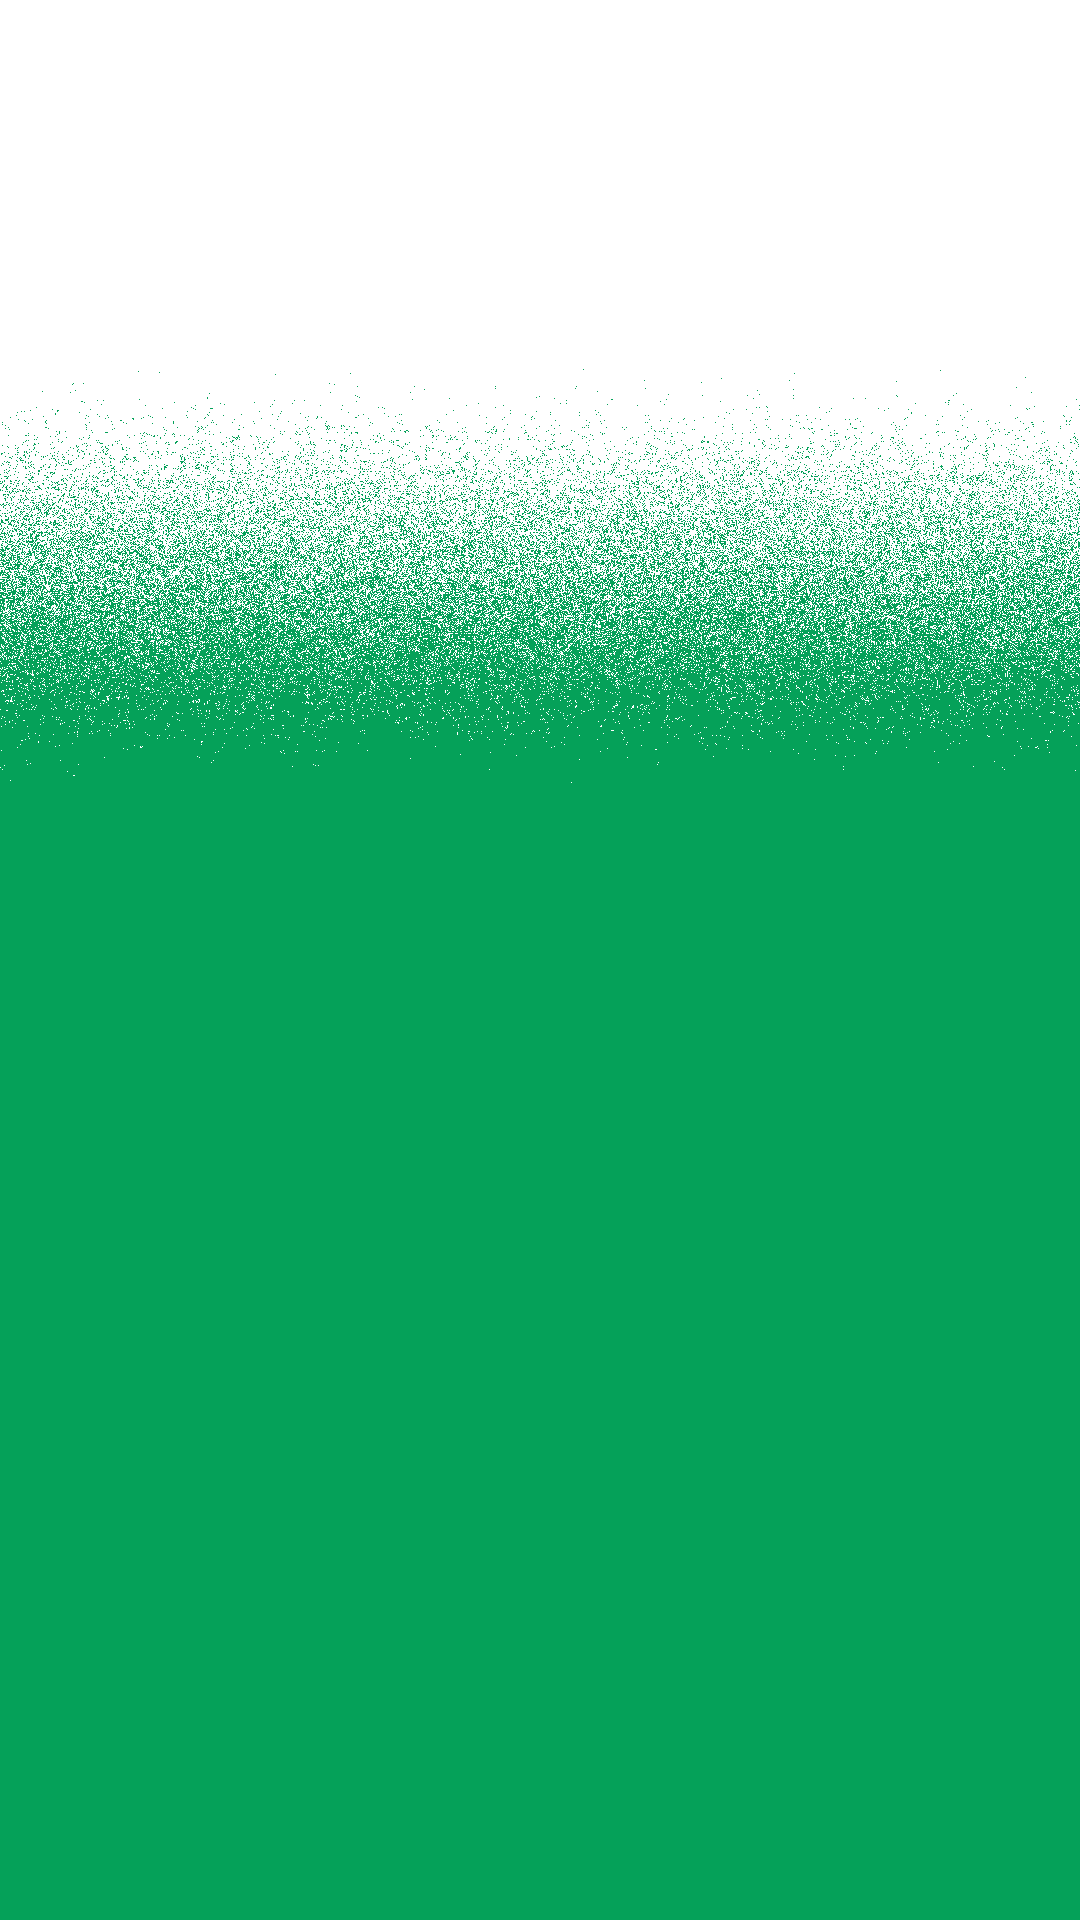
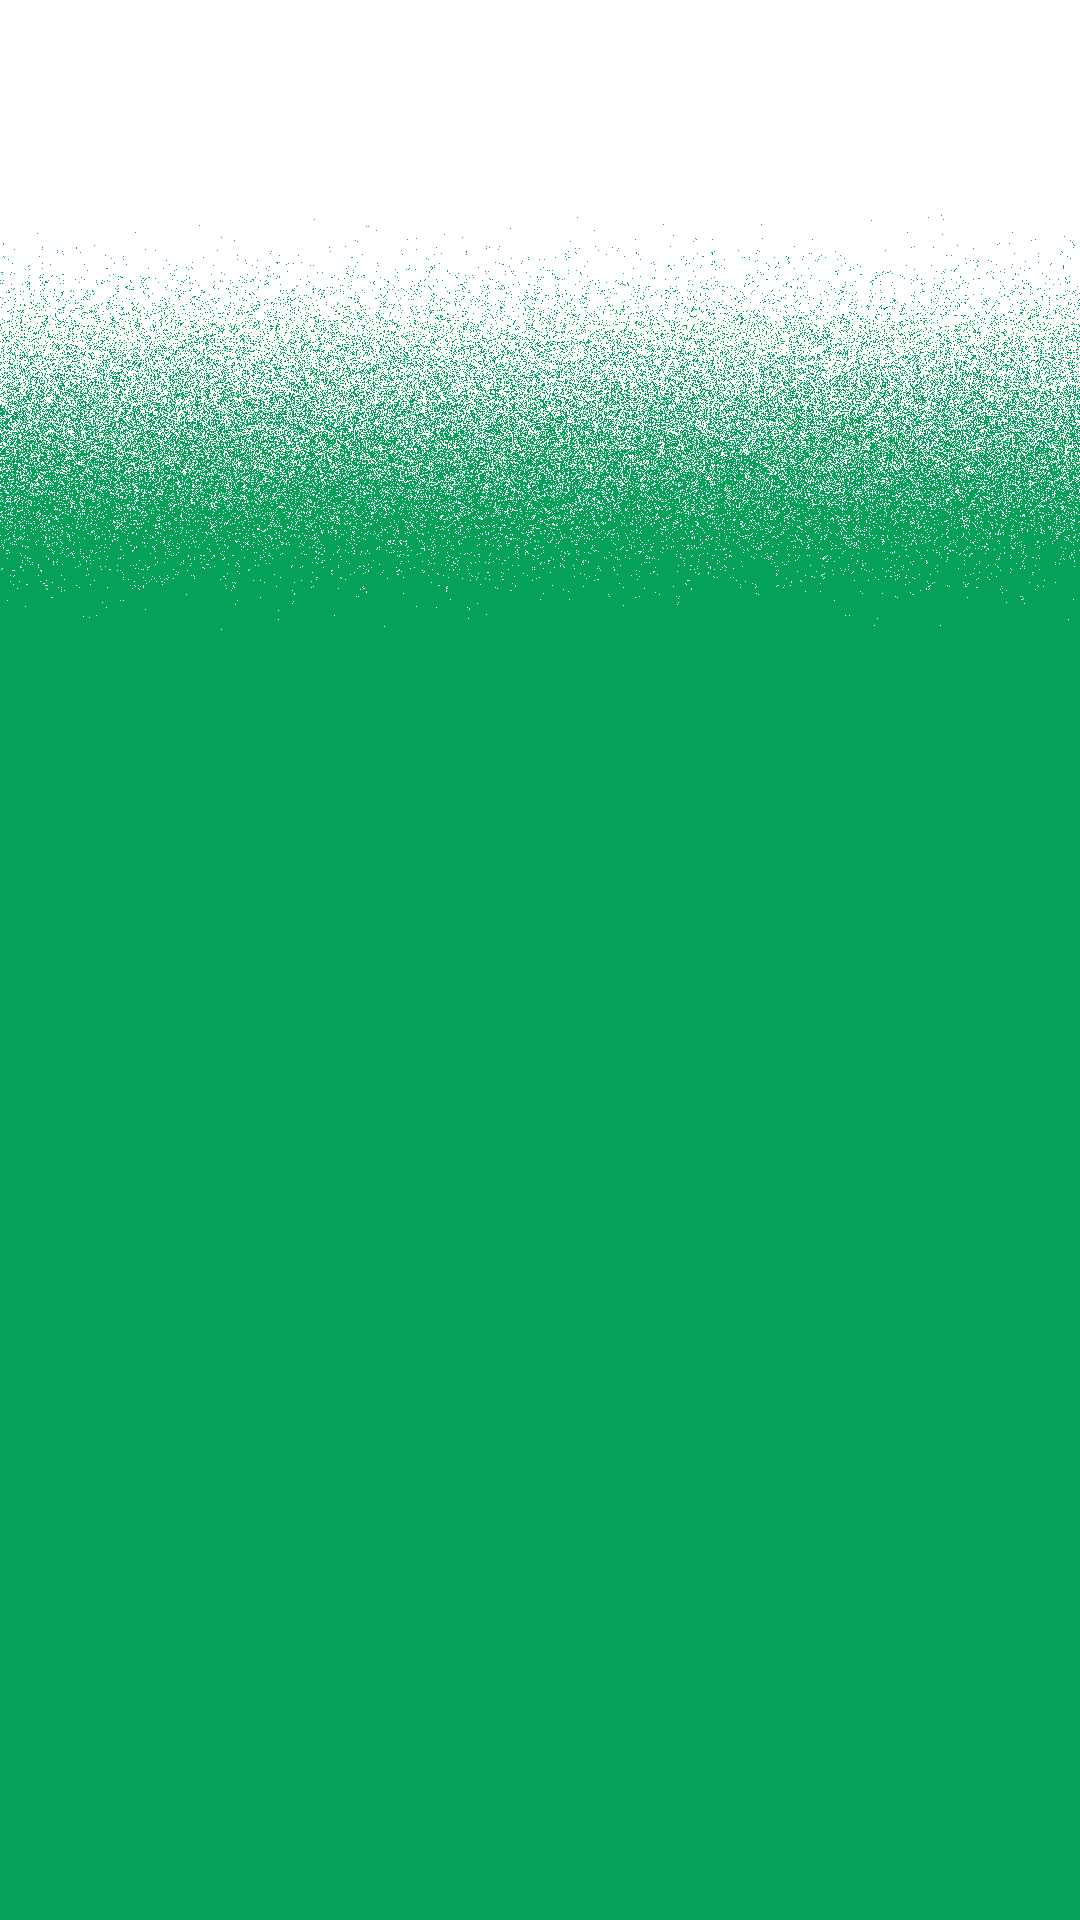
Prevent parallax background edge gaps
Oversize the moving background frame beyond its spring travel so the white page cannot be exposed. Raise the color dissolve and remove the top details divider.

Changed region(s): [[0.0, 0.1562, 1.0, 0.375]]

diff --git a/src/styles.css b/src/styles.css
@@ -7,6 +7,7 @@
   --background:#114bc6;
   --ink:#f6eddd;
   --glow:#72fff1;
+  --background-overscan:1.25rem;
   --edge:clamp(1rem,2vw,2rem);
   --top-edge:max(.75rem,env(safe-area-inset-top));
   --rail-height:3.25rem;
@@ -35,12 +36,12 @@ button{font:inherit}
 .site[data-ready="true"]{opacity:1}
 .visual,.background-parallax,.animal-parallax,.poster-background,.noscript-image{position:absolute;inset:0;width:100%;height:100%}
 .visual{z-index:0;overflow:hidden;background:var(--paper)}
-.background-parallax{z-index:0;clip-path:inset(0);will-change:transform,clip-path}
+.background-parallax{z-index:0;inset:calc(var(--background-overscan) * -1);width:auto;height:auto;clip-path:inset(0);will-change:transform,clip-path}
 .animal-parallax{z-index:2;will-change:transform,filter;pointer-events:none;transition:filter .2s var(--ease)}
 .animal-parallax[data-hit="true"],.animal-parallax:has(.animal:focus-visible){filter:drop-shadow(0 0 .16rem #fff) drop-shadow(0 0 .65rem color-mix(in srgb,var(--glow) 72%,#fff)) drop-shadow(0 0 1.9rem color-mix(in srgb,var(--glow) 84%,transparent)) brightness(1.1) saturate(1.1)}
 .poster-background,.noscript-image{z-index:0;display:block;object-fit:cover;object-position:center;user-select:none;-webkit-user-drag:none}
 .poster-background{transform:scale(1.035);will-change:opacity,filter}
-.dither-motion{position:absolute;z-index:1;inset:0;overflow:hidden;mix-blend-mode:soft-light;pointer-events:none;-webkit-mask-image:linear-gradient(to bottom,transparent 8%,#000 18%,#000 39%,transparent 49%);mask-image:linear-gradient(to bottom,transparent 8%,#000 18%,#000 39%,transparent 49%)}
+.dither-motion{position:absolute;z-index:1;inset:0;overflow:hidden;mix-blend-mode:soft-light;pointer-events:none;-webkit-mask-image:linear-gradient(to bottom,transparent 3%,#000 10%,#000 32%,transparent 42%);mask-image:linear-gradient(to bottom,transparent 3%,#000 10%,#000 32%,transparent 42%)}
 .dither-layer{position:absolute;inset:-8%;display:block;opacity:.12;background-repeat:repeat;image-rendering:pixelated;will-change:transform,opacity,background-position}
 .dither-layer-a{background-image:radial-gradient(circle,rgba(255,255,255,.9) 0 .7px,transparent .85px);background-size:4px 4px}
 .dither-layer-b{background-image:radial-gradient(circle,rgba(0,0,0,.72) 0 .65px,transparent .8px);background-position:2px 1px;background-size:5px 5px;mix-blend-mode:overlay}
@@ -63,7 +64,7 @@ html[data-scene="4"] .animal{bottom:0;left:-9vw;width:min(82vw,88rem)}
 .top-meta{position:absolute;top:var(--top-edge);right:var(--edge);left:var(--edge);display:grid;grid-template-columns:1fr auto 1fr;align-items:start;font-size:.51rem;letter-spacing:.09em}
 .top-meta>span:nth-child(2){justify-self:center;font-style:italic}
 .top-meta>span:last-child{justify-self:end}
-.scene-control{position:absolute;top:calc(var(--top-edge) + 1.7rem);right:var(--edge);left:var(--edge);display:grid;grid-template-columns:1fr auto 1fr;align-items:start;height:var(--rail-height);padding:0 0 .85rem;border:0;border-bottom:1px solid currentColor;background:transparent;color:inherit;text-align:left;cursor:pointer;pointer-events:auto}
+.scene-control{position:absolute;top:calc(var(--top-edge) + 1.7rem);right:var(--edge);left:var(--edge);display:grid;grid-template-columns:1fr auto 1fr;align-items:start;height:var(--rail-height);padding:0 0 .85rem;border:0;background:transparent;color:inherit;text-align:left;cursor:pointer;pointer-events:auto}
 .scene-control::after{position:absolute;inset:-.75rem 0;content:""}
 .scene-control:hover .scene-next{letter-spacing:.16em}
 .scene-control:active{transform:translateY(1px)}
@@ -118,7 +119,7 @@ html[data-scene="2"] .animal-card__media img,html[data-scene="4"] .animal-card__
 .animal-source{align-self:end;justify-self:stretch;margin-top:1rem;padding-top:.8rem;color:inherit;font-size:.58rem;font-weight:650;line-height:1;letter-spacing:.075em;text-decoration:none;border-top:1px solid rgba(20,20,20,.2)}
 
 button:focus-visible,a:focus-visible{outline:1px solid currentColor;outline-offset:4px}
-.scene-control:focus-visible{outline:0;border-bottom-width:2px}
+.scene-control:focus-visible{outline:1px solid currentColor;outline-offset:4px}
 
 @media(max-width:760px), (max-width:900px) and (orientation:portrait){
   :root{--edge:1rem}
